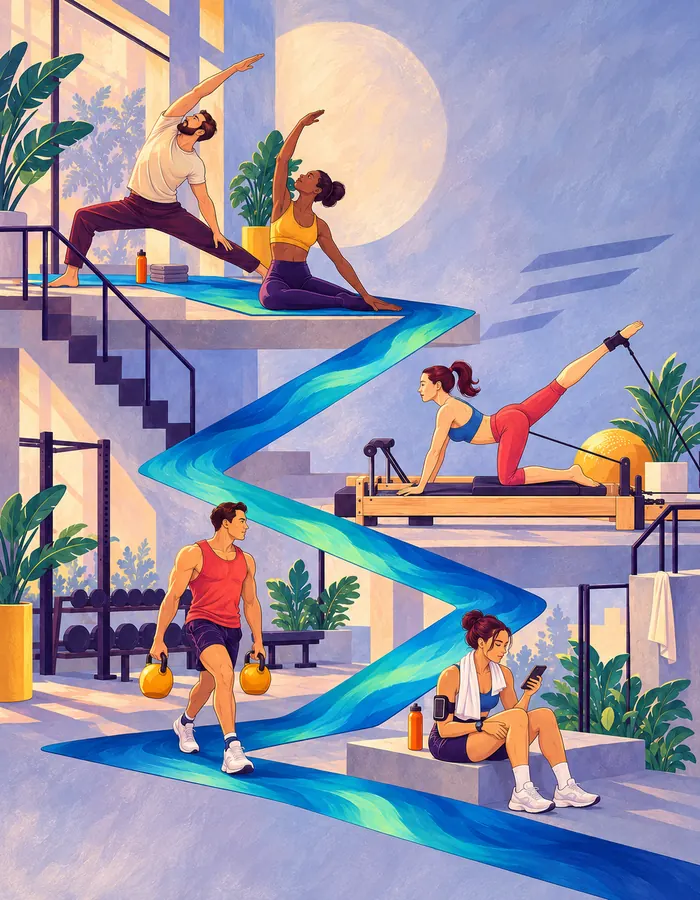
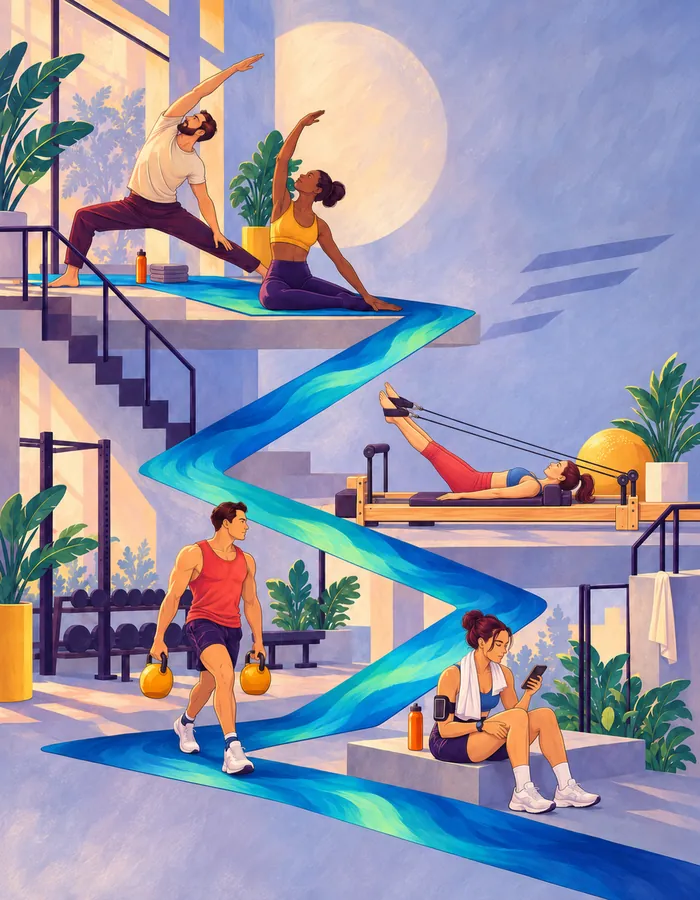
Dashboard: the top picture is Kd's newer one, feet in straps

diff --git a/apps/mobile/src/look/pictures.ts b/apps/mobile/src/look/pictures.ts
@@ -1,7 +1,7 @@
 // The member web's own pictures, made small (spec Part 6 §16.3a): 900 pixels on the
 // long side, WebP. Made by docs/design/phone/compact.py; never the web's full-size files.
 // `cave` is Kd's "prehistoric-cave-brightened" (2026-10-28), its fire made to glow: a person's page in a gym.
-// `studio` is Kd's "Painterly multi-level fitness studio" (2026-11-19), whole, for the Dashboard's top.
+// `studio` is Kd's "Pilates reformer feet-in-straps exercise" (2026-11-19), whole, for the Dashboard's top.
 // `motivation` is Kd's "Glowing spear ring and lone warrior" (2026-10-28), darkened for the clock.
 // `goals` and `goalsbox` are Kd's own drawing (2026-10-27), made dark by reviews/pics31b.py.
 // `signin` is Kd's "Neon Fitness Crew Sticker Poster" (12e, 2026-11-08), made tall for a phone by ChatGPT; its plain
